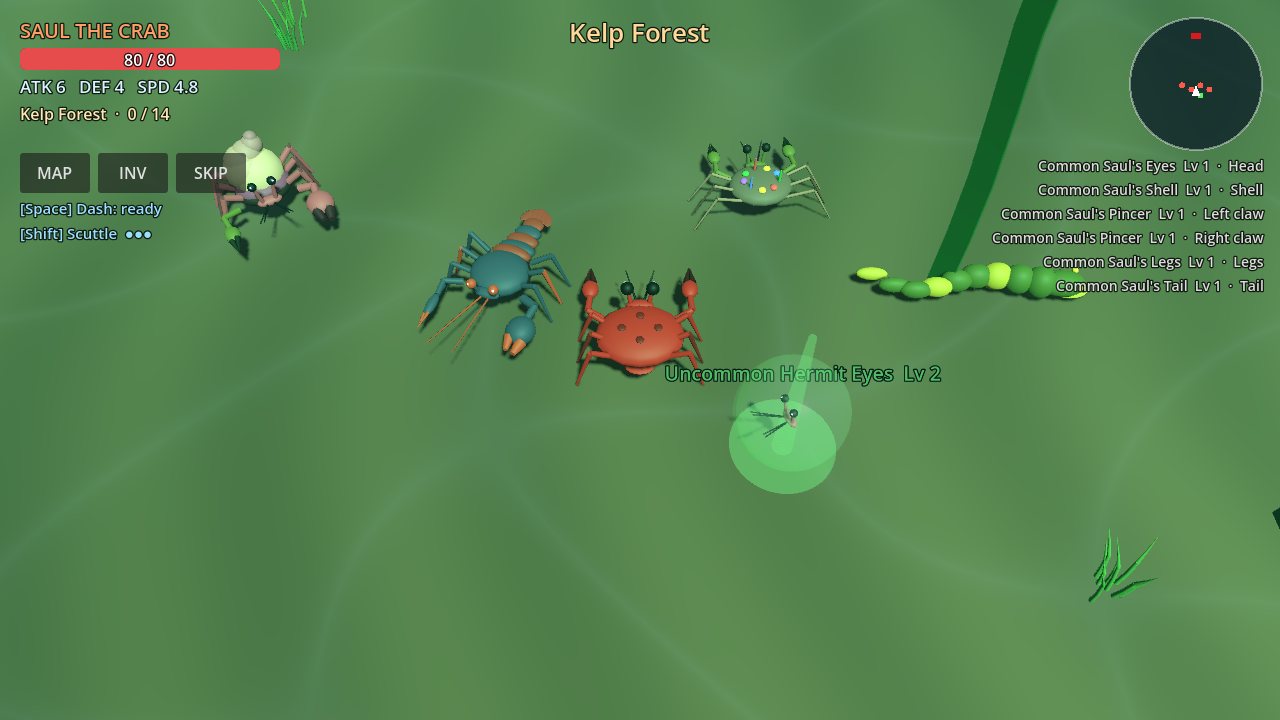
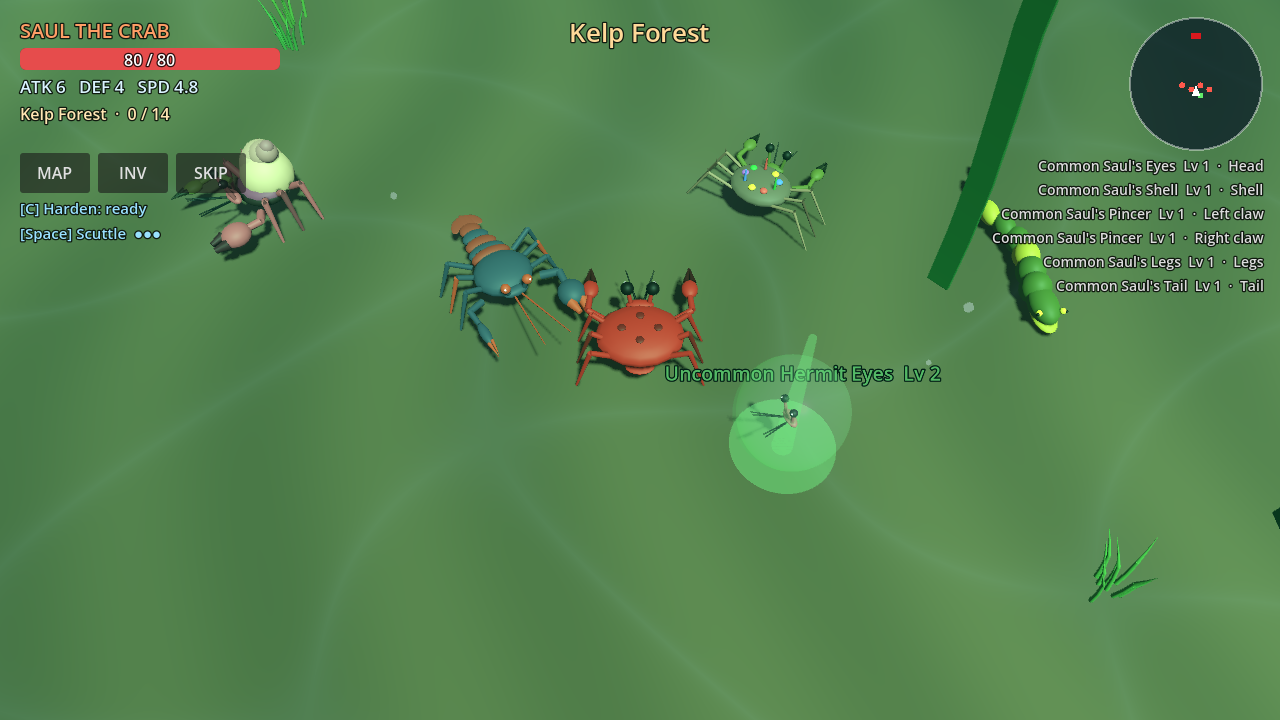
Moves on Space, Harden replaces dash, faster cooldowns, Gary's big jump
- Each crab's own move is now on Space / gamepad A; shell abilities moved to C / B; Shift unbound.
- The basic shell dash is gone; those shells now give Harden (60% less damage for 2.5 s).
- Movement cooldowns cut 70% (0.9 s, Louise 1.2 s).
- Gary's Long Jump goes ~10x farther and sails over creatures, rocks and coral, clamped to the arena.
- Marjorie's Arc Dash is much faster.
- Smoke test covers the jump clearing a rock; the deflector check polls instead of a fixed wait.

diff --git a/README.md b/README.md
@@ -16,7 +16,7 @@ Built with **Godot 4.7.2**. It runs as a **Windows exe** and as a **mobile web a
 - **An endless dive.** Five hand-made depths, then generated ones forever. Every depth has a biome, an arena layout, a featured creature, an objective (cull, waves or hunt) and modifiers like Swarm, Riptide or Dark water. The same depth is always the same level.
 - **Chimera bosses** that wear parts stolen from other creatures, have traits (summoner, enrage, slam, shell, splitter), and **adapt to how you fight**: snipe them and they rush you, brawl them and they grow thorns. Beat one and a portal opens home.
 - **36 kinds of sea creature**: crabs, lobsters, shrimp, isopods, eels, sharks, swordfish, jellyfish, urchins, octopuses, cuttlefish, rays, clams and more.
-- **114 body parts in 6 slots.** Claws are your attacks (8 styles). Shells give a spacebar ability (dash, deflector, cloak, spike burst, roll, mend, quake, or the rare Shark Dash). Tails act on their own: they dodge, guard, mend, stab, zap, lure or spray spines. Deeper parts are stronger.
+- **114 body parts in 6 slots.** Claws are your attacks (8 styles). Shells give an ability on C (harden, deflector, cloak, spike burst, roll, mend, quake, or the rare Shark Dash). Tails act on their own: they dodge, guard, mend, stab, zap, lure or spray spines. Deeper parts are stronger.
 - **Six loot tiers** up to Legendary and the very rare **Gold**, which always carries a unique mod (Echo, Detonate, Stormcaller, Second wind…). **Set bonuses** for full Epic sets, and the best gear in the sea is the full **Gold Debra set**.
 - **A bag and a stash at home** (per crab), with an inventory screen to compare, equip and store parts. Loot on the floor vanishes after 20 seconds, so grab it.
 - **A branching map**: routes fork and rejoin as you dive.
@@ -31,12 +31,12 @@ Built with **Godot 4.7.2**. It runs as a **Windows exe** and as a **mobile web a
 | Aim | Mouse | Right stick | Auto-aim |
 | Left claw attack | LMB / J | LB / LT | L CLAW |
 | Right claw attack | RMB / K | RB / RT | R CLAW |
-| Shell ability | Space | A | ABILITY |
+| Shell ability | C | B | ABILITY |
 | Take to bag | Q | Y | TAKE |
 | Inventory | I or Tab | Back | INV |
 | Equip part (left claw) | E / F | X | EQUIP / EQUIP L |
 | Equip to right claw | R | D-pad right | EQUIP R |
-| Own movement move (per crab) | Shift | B | MOVE |
+| Own movement move (per crab) | Space | A | MOVE |
 | Back to map | Esc, or the portal | Start | MAP |
 | Dev: random part / spawn / heal / boss / skip | F1 / F2 / F3 / F4 / F5 | | SKIP |
 

diff --git a/docs/ARCHITECTURE.md b/docs/ARCHITECTURE.md
@@ -156,6 +156,6 @@ Combat will be rebuilt 3–4 times. Everything combat-specific lives in `scripts
 - **Branching chart**: `GameState.branch_count(d)`, `level_at(d, b)`, `parents(d, b)` (nearest parent + seeded cross-links; every node gets ≥1 parent and every parent ≥1 child), `is_unlocked` (any parent cleared), `frontier_depth()`. Generated ids are `depth_D_B`; old `depth_D` ids still resolve to branch 0. `LevelGenerator.generate(depth, branch)` seeds from both.
 
 ## 2026-10-23 additions
-- **MoveAbility** (`combat/move_ability.gd`) lives only on `PlayerCrab`. Its kind comes from `CreatureData.move_ability` (starters only). It holds charges that refill one per cooldown, and a pattern `step` (scuttle R,R,L,L; shimmy F,F,B,F; arc alternates). Every move uses `Creature.start_dash`, plus the new `Creature.curve_dash` (arcs) and `Creature.airborne` (Gary's jump: no hits and no crab collisions, and the body is raised along a sine). Input is `PlayerInput.move_pressed` (Shift / B / touch MOVE).
+- **MoveAbility** (`combat/move_ability.gd`) lives only on `PlayerCrab`. Its kind comes from `CreatureData.move_ability` (starters only). It holds charges that refill one per cooldown, and a pattern `step` (scuttle R,R,L,L; shimmy F,F,B,F; arc alternates). Every move uses `Creature.start_dash`, plus the new `Creature.curve_dash` (arcs) and `Creature.airborne` (Gary's jump: no hits and no crab collisions, and the body is raised along a sine). Input is `PlayerInput.move_pressed` (Space / A / touch MOVE). Gary's jump drops all collision while airborne and `_keep_in_arena()` stops him at the arena edge.
 - **Props** (`world/props.gd`): game-ready decor built from primitives with `shaders/sway.gdshader`. The sway depends only on world position and height, so multi-mesh props bend as one. `Props.build(kind, rng, scale)` + `Props.footprint(kind)` (hard props get collision via `LevelBuilder._prop`). Used by the crab select backdrop and by `LevelBuilder._coral` / `_scatter`.
 - **Title screen** (`CrabSelect`): backdrop (kelp, rocks, a coral reef row, seagrass in the corners) and a parade of creature visuals crossing behind the starters: crabs scuttle side-on, critters swim at their hover height.

diff --git a/CLAUDE.md b/CLAUDE.md
@@ -40,6 +40,6 @@ To run Godot directly: `.tools/godot/Godot_v4.7.2-stable_win64_console.exe --pat
 - **Content is data.** A new creature is a `.tres` in `data/creatures/`. Give it a `min_depth` and the generator picks it up. A non-crustacean also needs a `body_kind` in `CritterVisual` (bodies animate generically via named nodes).
 - Milestone 4 is done: Legendary + Gold tiers with mods (`Mods`), set bonuses (`Sets`; Gold Debra = Headliner), shell spacebar abilities (`ShellAbility`), passive tails, bag + stash + `InventoryUI`, loot bubbles that vanish after 20 s, a branching map, and dev skip (`GameState.dev_mode`, F5, SKIP).
 - 2026-10-20: each crab is its own saved game (`GameState` slots: CONTINUE / NEW GAME on crab select), and depth 1-3 bosses are paced slower (`Level.early_boss_pace`, `Creature.boss_pace`).
-- 2026-10-23: each starter has its own movement move (`MoveAbility`, Shift / B / MOVE): Gary jump, Saul scuttle RRLL, Debra lunge, Marjorie arc, Louise shimmy FFBF. Fixed per crab for now (tail-linked movement is Open). Title screen backdrop + creature parade; swaying `Props` in levels.
+- 2026-10-23: each starter has its own movement move (`MoveAbility`, Space / A / MOVE; cooldowns 0.9 s, Louise 1.2 s; Gary jumps ~60 m over everything; shell abilities moved to C / B, the basic dash became Harden): Gary jump, Saul scuttle RRLL, Debra lunge, Marjorie arc, Louise shimmy FFBF. Fixed per crab for now (tail-linked movement is Open). Title screen backdrop + creature parade; swaying `Props` in levels.
 - Not verified yet: touch input on a real phone, and balance deep into the dive (past ~depth 30). The smoke test takes about 9 minutes.
 - Next candidates are in DESIGN.md → "Milestones".
